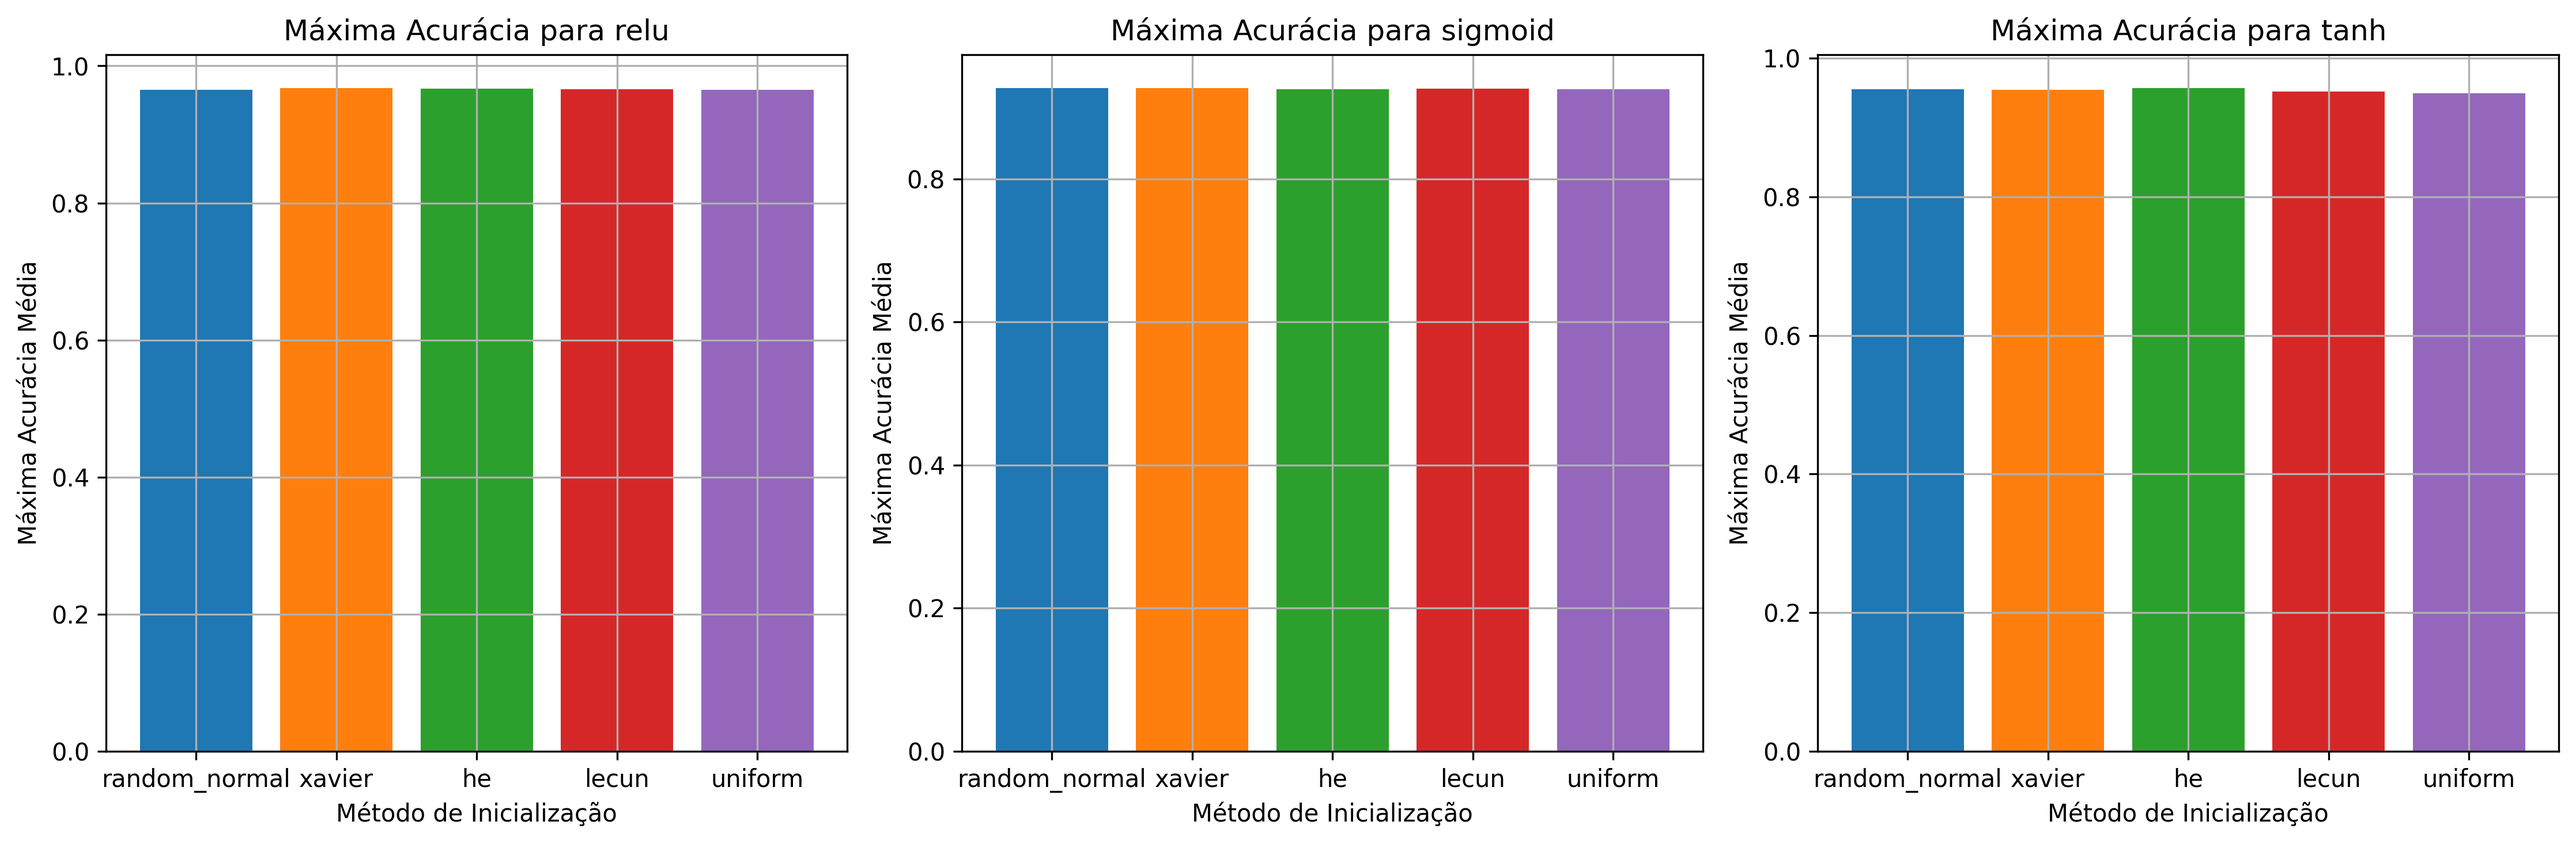
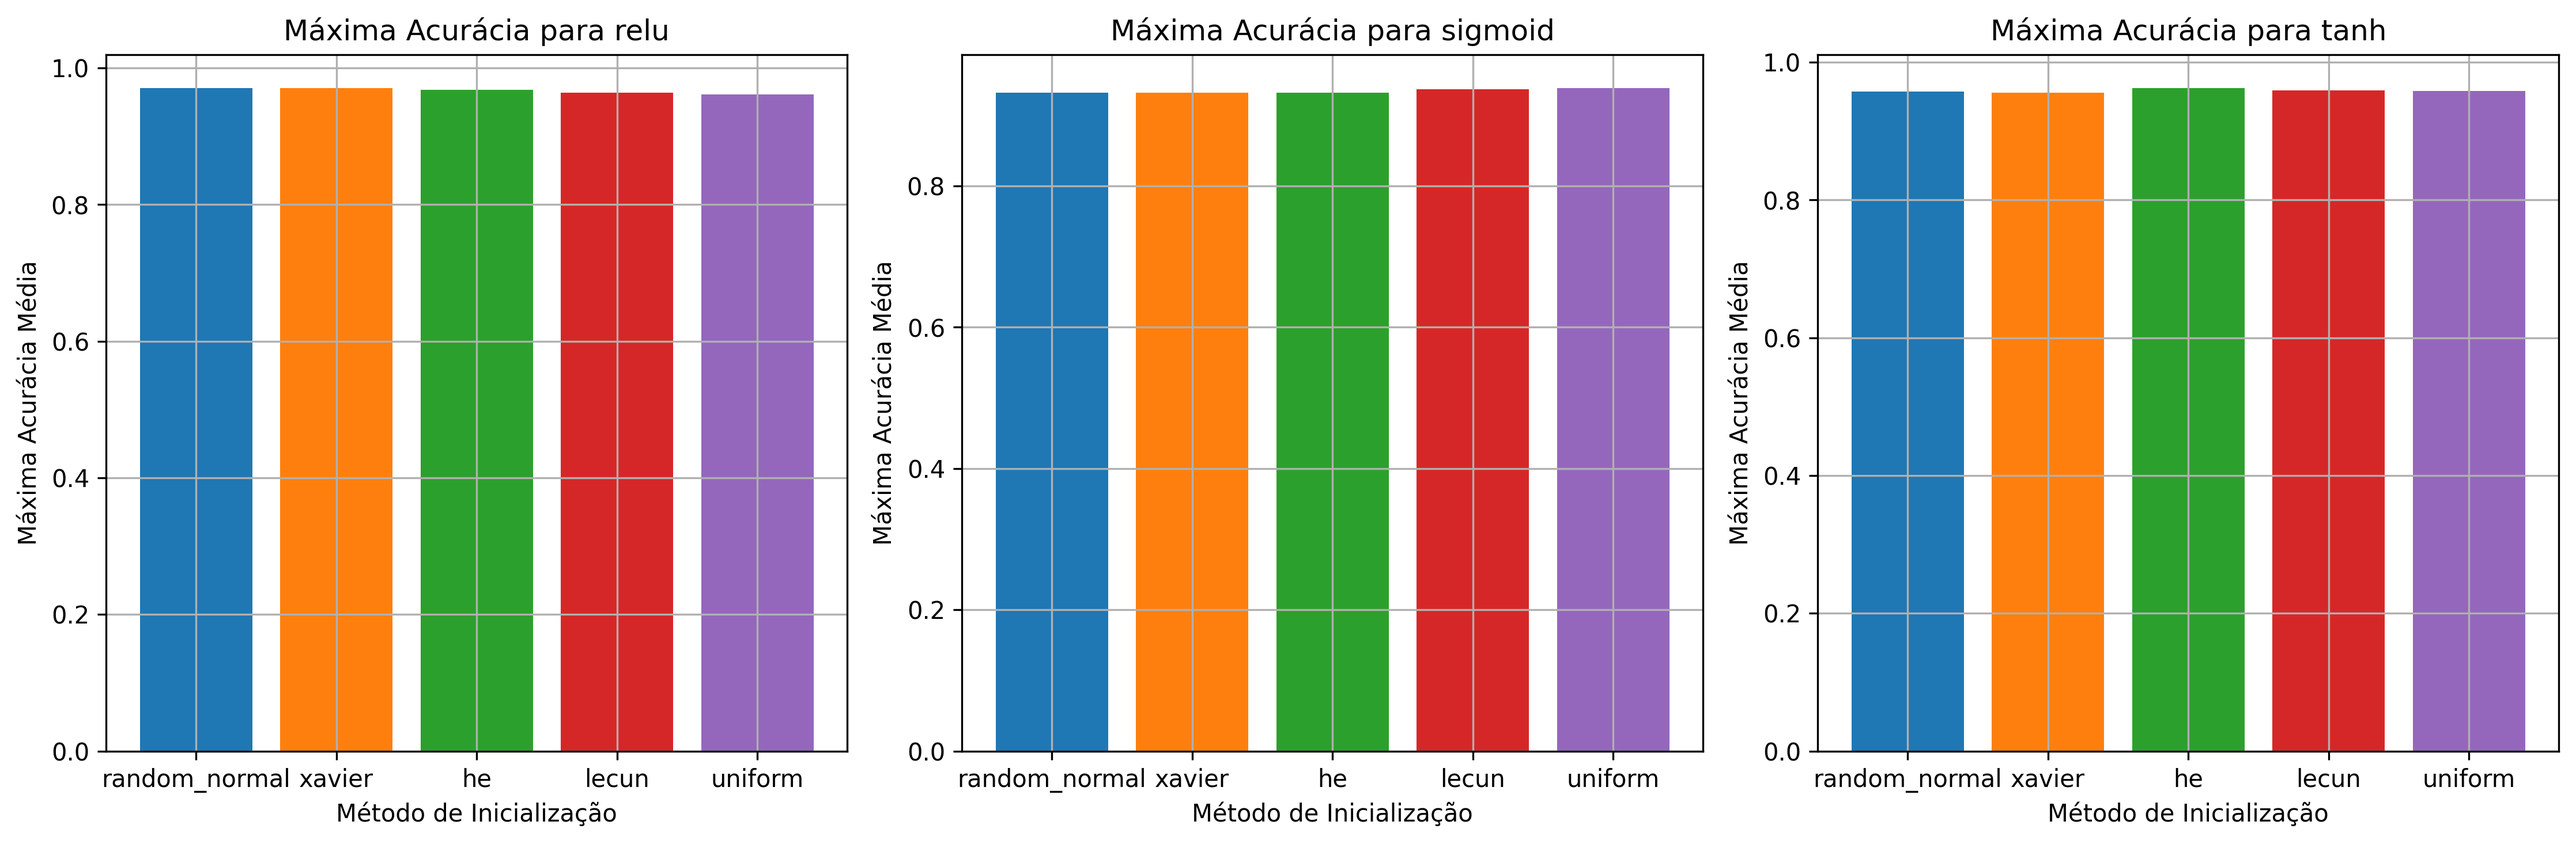
fixing MLP_PA batch size and run

diff --git a/MLP_PA.py b/MLP_PA.py
@@ -75,8 +75,8 @@ activations = {
     'sigmoid': nn.Sigmoid(),
     'tanh': nn.Tanh()
 }
-n_runs = 5
-batch_size = 128
+n_runs = 1
+batch_size = 60
 epochs = 1
 
 # Dicionário de resultados
